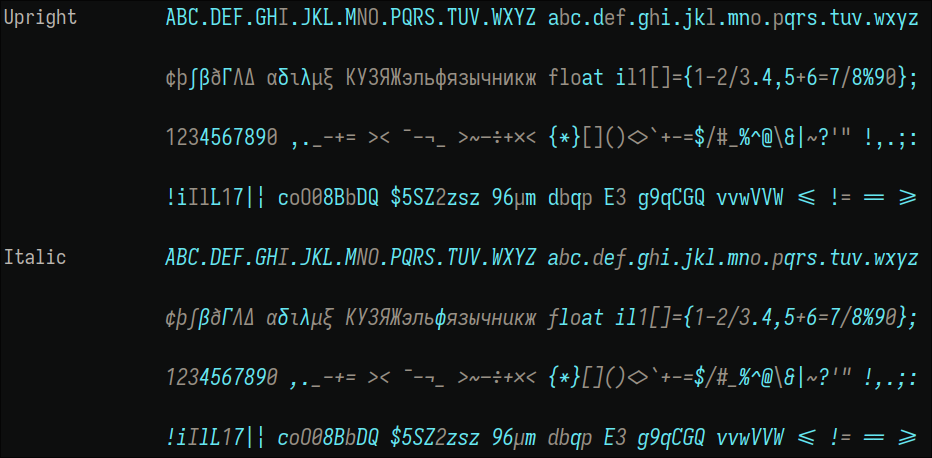
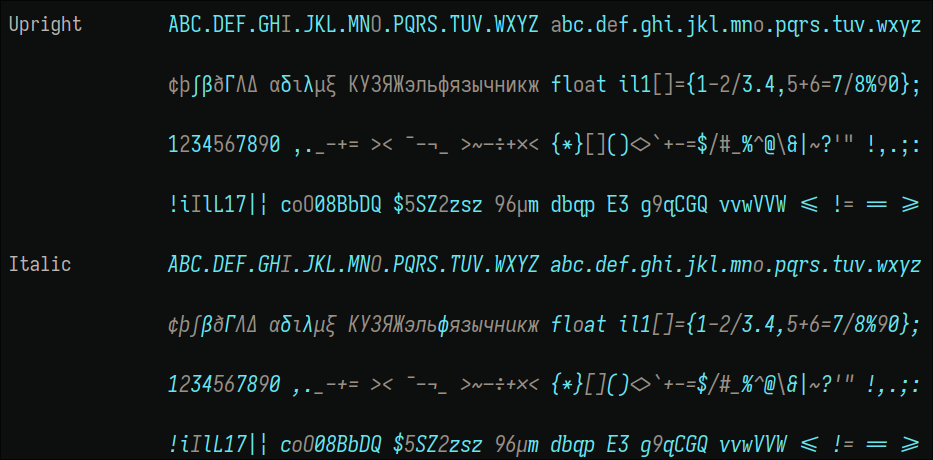
Update Iosevka1204 font config
Compatiable with Iosevka 25.1.1

diff --git a/000-fonts/README.md b/000-fonts/README.md
@@ -2,9 +2,11 @@
 
 ## Iosevka0828
 
-Iosevka custom fonts with slab serifs.
+Iosevka custom font with slab serifs.
 
 ![overview](./iosevka-slab-ss08-0828.png)
+
+Note: **Iosevka0828 has ligature for `!=`**
 
 ### Build
 
@@ -16,7 +18,7 @@ Iosevka custom fonts with slab serifs.
    * run `npm run build -- contents::iosevka0828` for TTF and Web fonts.
    * run `npm run build -- ttf::iosevka0828` for TTF fonts.
 
-## Patch fonts to Nerd Fonts
+### Patching Nerd Fonts
 
 * Use font patcher from [nerd fonts](https://github.com/ryanoasis/nerd-fonts/):
 
@@ -27,13 +29,15 @@ Iosevka custom fonts with slab serifs.
 
 ### Compatibility
 
-Compatibility with Iosevka 25.1.1
+Compatible with Iosevka 25.1.1
 
 ## Iosevka1204
 
-Iosevka custom fonts with sans serifs and little tails.
+Iosevka custom font with sans and little serif tails.
 
 ![overview](./iosevka-sans-default-1204.png)
+
+Note: **Iosevka1204 has ligature for `!=`**
 
 * See how Iosevka1204 looks like:
   * Import config file iosevka-sans-default-1204.toml on [Iosevka Customizer](https://typeof.net/Iosevka/customizer).
@@ -43,11 +47,15 @@ Iosevka custom fonts with sans serifs and little tails.
    * run `npm run build -- contents::iosevka1204` for TTF and Web fonts.
    * run `npm run build -- ttf::iosevka1204` for TTF fonts.
 
-## Patch fonts to Nerd Fonts
+### Patching Nerd Fonts
 
 * Use font patcher from [nerd fonts](https://github.com/ryanoasis/nerd-fonts/):
 
   ``` bash
   # CAUTION: CPU usage 100%
-  for f in `find iosevka1204 -type f`; do ./fontpatcher/font-patcher $f --complete --quiet --mono --makegroups --outputdir ./iosevka1204NF_mono_groups; done
+  for f in `find iosevka1204_20230730 -type f`; do ./fontpatcher/font-patcher $f --complete --quiet --mono --makegroups --outputdir ./iosevka1204NF_mono_groups_v3 &; done; wait
   ```
+
+### Compatibility
+
+Compatible with Iosevka 25.1.1
